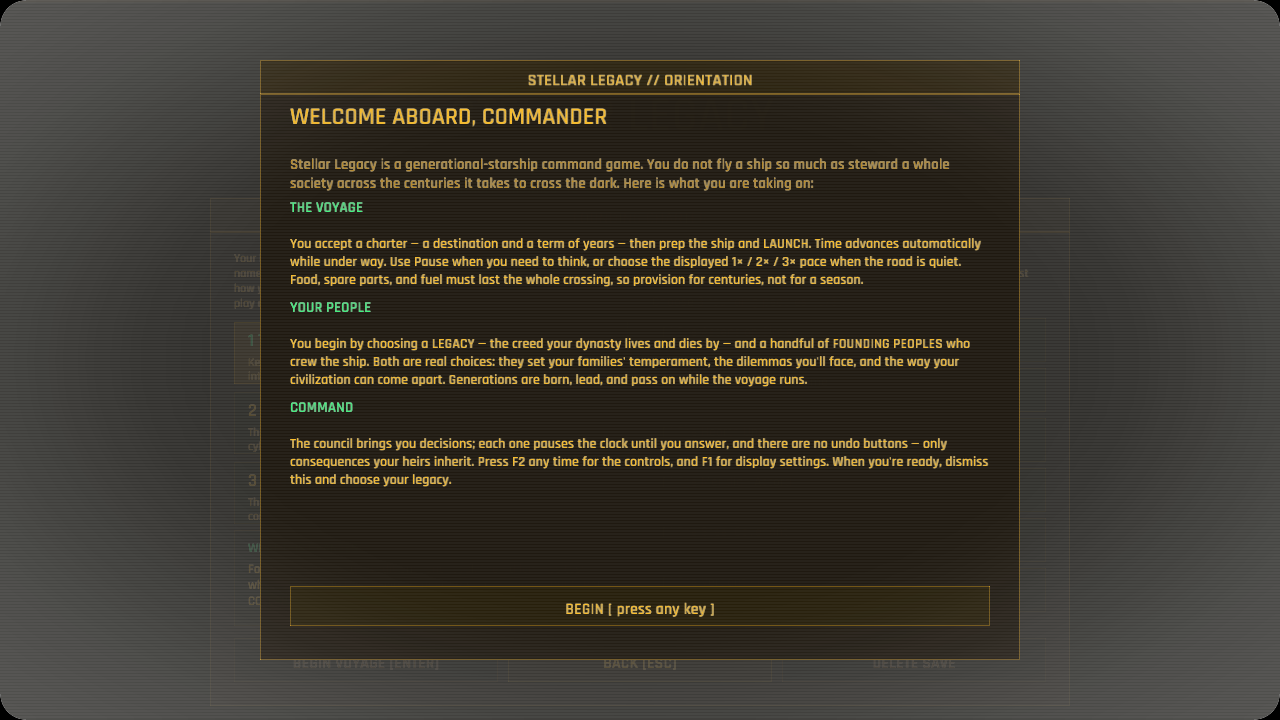
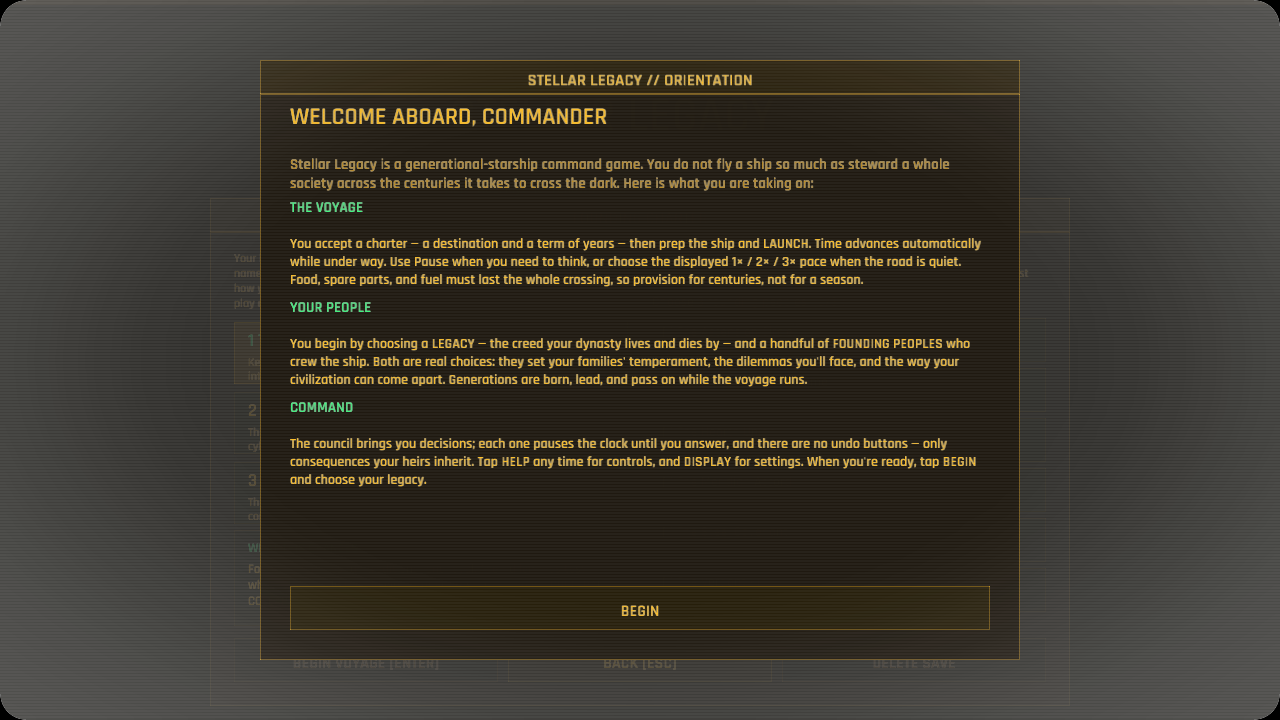
Every opening instruction points to a control under the hand (touch-first onboarding copy)
The boot, welcome, settings, and first-voyage tutorial still addressed a physical keyboard even though their actions have visible touch paths or happen automatically. Player-facing copy now names BEGIN, HELP, DISPLAY, CLOSE, SELECT, and LAUNCH exactly as they appear on screen; the auto-advancing boot reports that it is opening the console instead of demanding a key. A copy scan, refreshed onboarding captures, full tests, and both publish targets verify the change.

Changed region(s): [[0.375, 0.6111, 0.7812, 0.6722], [0.4375, 0.825, 0.5625, 0.8556], [0.2188, 0.6417, 0.3438, 0.6722]]

diff --git a/src/ui/welcome.rs b/src/ui/welcome.rs
@@ -2,8 +2,8 @@
 //! install (gated on a saved flag) over the new-game picker, greeting a new
 //! commander after they choose NEW GAME, before they pick a legacy and crew.
 //! Pure view — returns true on the frame the player
-//! dismisses it (button click); the game also treats any keypress as dismiss, to
-//! honor the "press any key" label. All text is data (`config.welcome`).
+//! dismisses it (button click); the game also treats any keypress as a
+//! supplemental shortcut. All text is data (`config.welcome`).
 
 use crate::data::WelcomeConfig;
 use crate::ui::{term, term_button, term_panel, LOGICAL_HEIGHT, LOGICAL_WIDTH};

diff --git a/src/ui/settings.rs b/src/ui/settings.rs
@@ -177,7 +177,7 @@ pub fn draw(
         y += 48.0;
     }
     draw_ui_text_ex(
-        "F1 panel · F2 help · F10 CRT · ESC closes.",
+        "Tap DISPLAY for this panel · HELP for controls · CLOSE to return.",
         content.x,
         content.bottom() - 54.0,
         TextStyle::new(13.0, term::faint()).params(),

diff --git a/src/boot.rs b/src/boot.rs
@@ -29,7 +29,7 @@ const LINES: &[&str] = &[
     "",
     "ALL SYSTEMS NOMINAL.   MOUNTING FOUNDING CHARTER...",
     "",
-    ">> PRESS ANY KEY TO BEGIN <<",
+    ">> STANDBY — OPENING MAIN CONSOLE <<",
 ];
 
 /// One-shot boot animation. Held on `Game`; shown while it is not [`is_done`].
